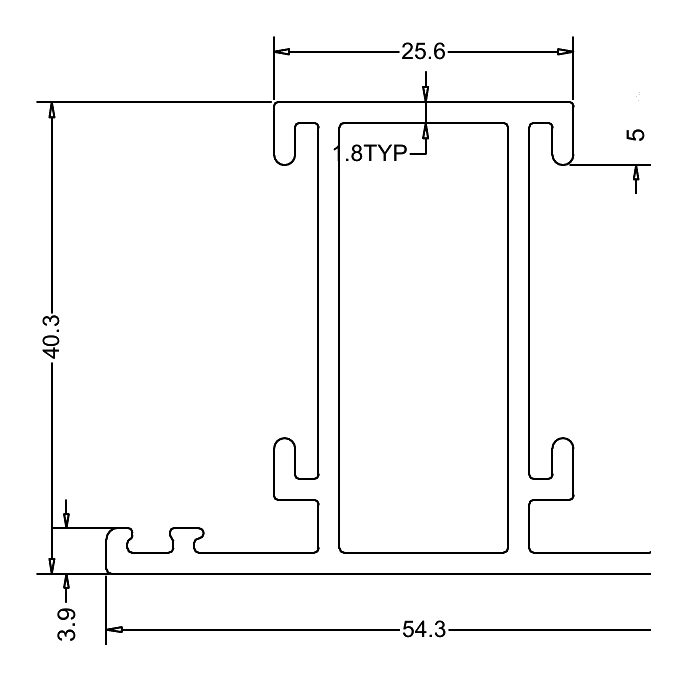
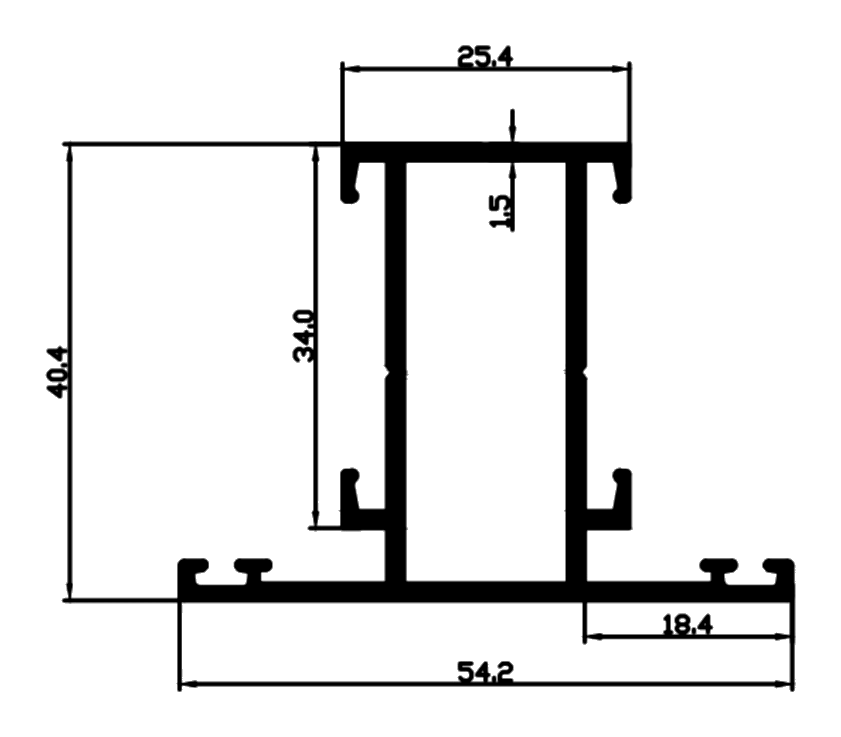
Full Z-section drawings from the catalogue; thumbnails never crop
- The seven Z-section drawings were cut off at the edge in the old
  catalogue crops. They are replaced from the founder's catalogue pages
  (SEC 20501, 20502, 20500, 20503, 20509, 20610 and OMEO 2077), each the
  whole section with its dimensions, black on white like the rest.
- Section thumbnails had a percentage height that did not resolve, so a
  tall drawing spilled out of the bottom of its box. They now take the
  box's exact size and fit inside it.

Claude-Session: https://claude.ai/code/session_011PUPxMAAzzLueH72U7EBRP

diff --git a/components/section-profiles.tsx b/components/section-profiles.tsx
@@ -286,7 +286,9 @@ export function SectionProfile({ sectionId, w = 46, h = 30 }: { sectionId: strin
         style={{ width: w + 8, height: h + 6, background: "#fff", border: "1px solid var(--line)" }}>
         {/* eslint-disable-next-line @next/next/no-img-element */}
         <img src={imageSrc(sectionId)} alt={`${sec.label} cross-section`}
-          style={{ maxWidth: "100%", maxHeight: "100%", objectFit: "contain", padding: 2 }} />
+          // the whole drawing, always: fill the box and fit inside it — a
+          // max-size plus padding let tall sections spill out of the bottom
+          style={{ width: w + 6, height: h + 4, objectFit: "contain", padding: 3, boxSizing: "border-box" }} />
       </span>
     );
   }
